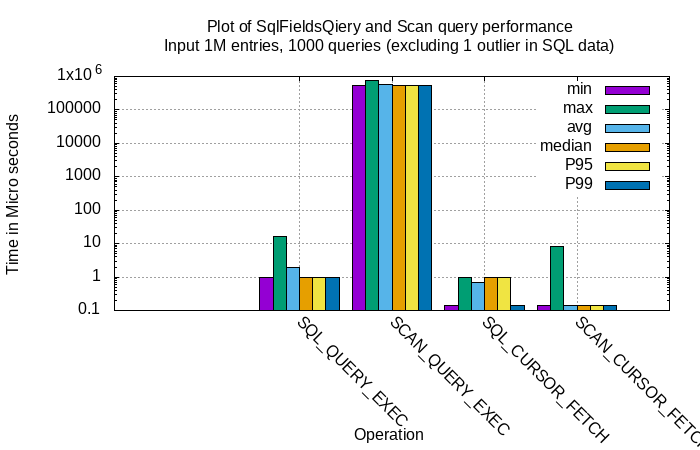
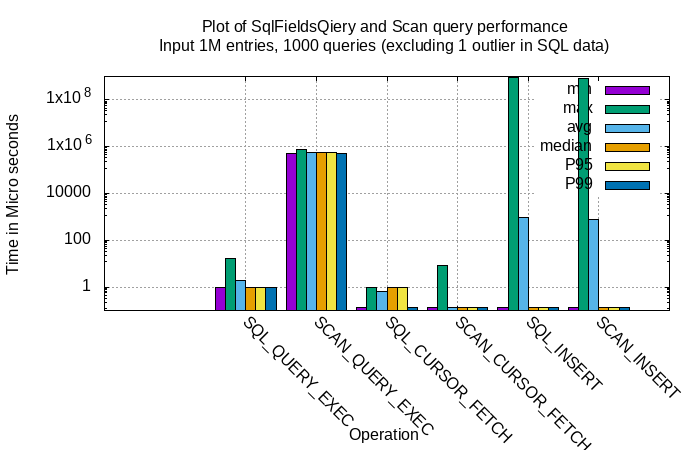
Add insert times, remove sqlColumns and rename sqlquery and scan query as suggested in the code review

diff --git a/lib/src/main/java/com/futurewei/alcor/common/db/ignite/IgniteClientDbCache.java b/lib/src/main/java/com/futurewei/alcor/common/db/ignite/IgniteClientDbCache.java
@@ -64,9 +64,7 @@ public class IgniteClientDbCache<K, V> implements IgniteICache<K, V> {
         public String type;
         public boolean isIndexed;
     }
-    private Map<String, SqlField> sqlFields = null; // needed for index creation and querying
-    private List<String> sqlColumns = null;         // needed for constructing indexes in specified order
-                                                    // so that a prefix query can use indexed search.
+    private LinkedHashMap<String, SqlField> sqlFields = null; // needed for index creation and querying
     private boolean checkedForSqlFields = false;
 
     public IgniteClientDbCache(IgniteClient igniteClient, Class<?> v, String name) {
@@ -350,8 +348,8 @@ public class IgniteClientDbCache<K, V> implements IgniteICache<K, V> {
         StringBuilder sb = new StringBuilder("select _key, _val from " + SQL_SCHEMA_NAME +
                 "." + cache.getConfiguration().getQueryEntities()[0].getTableName() + " where ");
         boolean needAnd = false;
-        for (String c : sqlColumns) {
-            if (!sqlFields.get(c).isIndexed || !filterParams.containsKey(c))
+        for (String c : filterParams.keySet()) {
+            if (!sqlFields.get(c).isIndexed)
                 continue;
             SqlField f = sqlFields.get(c);
             if (needAnd)
@@ -395,11 +393,12 @@ public class IgniteClientDbCache<K, V> implements IgniteICache<K, V> {
         LinkedHashMap<String, String> qryFields = new LinkedHashMap<>();
         ArrayList<QueryIndex> idxFields = new ArrayList<>();
         try {
-            for (String c : sqlColumns) {
-                SqlField f = sqlFields.get(c);
-                qryFields.put(c, f.type);
+            for (Map.Entry<String, SqlField> e : sqlFields.entrySet()) {
+                String cname = e.getKey();
+                SqlField f = e.getValue();
+                qryFields.put(cname, f.type);
                 if (f.isIndexed) {
-                    idxFields.add(new QueryIndex(c));
+                    idxFields.add(new QueryIndex(cname));
                 }
             }
 
@@ -435,7 +434,6 @@ public class IgniteClientDbCache<K, V> implements IgniteICache<K, V> {
 
     private void extractSqlFields(String className) {
         Map<String, SqlField> localFields = new HashMap<>();
-        List<String> localColumns = new ArrayList<>();
         logger.log(Level.INFO, "Checking for QuerySqlField annotations: " + className);
         Field[] fields = null;
         try {
@@ -457,13 +455,10 @@ public class IgniteClientDbCache<K, V> implements IgniteICache<K, V> {
                         sqlField.type = f.getType().getTypeName();
                         localFields.put(f.getName(), sqlField);
                     }
-
-                    localColumns.add(f.getName());
                 }
             }
 
             sqlFields = localFields;
-            sqlColumns = localColumns;
             logger.log(Level.INFO, "QuerySqlField Found " + sqlFields.size() + " sqlFields");
         } catch (Exception e) {
             logger.log(Level.INFO, "Failed to get Class info for class " + className + ", or declared fields");

diff --git a/web/src/main/java/com/futurewei/alcor/web/entity/port/PortEntity.java b/web/src/main/java/com/futurewei/alcor/web/entity/port/PortEntity.java
@@ -20,7 +20,6 @@ import com.fasterxml.jackson.annotation.JsonProperty;
 import com.futurewei.alcor.common.entity.CustomerResource;
 import lombok.Data;
 import lombok.NoArgsConstructor;
-import org.apache.ignite.cache.query.annotations.QuerySqlField;
 
 import java.util.List;
 
@@ -28,7 +27,6 @@ import java.util.List;
 @JsonInclude(JsonInclude.Include.NON_ABSENT)
 public class PortEntity extends CustomerResource {
     @JsonProperty("network_id")
-    @QuerySqlField(index = true)
     private String vpcId;
 
     @JsonProperty("admin_state_up")

diff --git a/lib/src/main/java/com/futurewei/alcor/common/entity/CustomerResource.java b/lib/src/main/java/com/futurewei/alcor/common/entity/CustomerResource.java
@@ -24,7 +24,6 @@ import java.util.Objects;
 public class CustomerResource extends Resource {
 
     @JsonProperty("project_id")
-    // @QuerySqlField(index = true)
     private String projectId;
 
     @JsonProperty("tenant_id")
